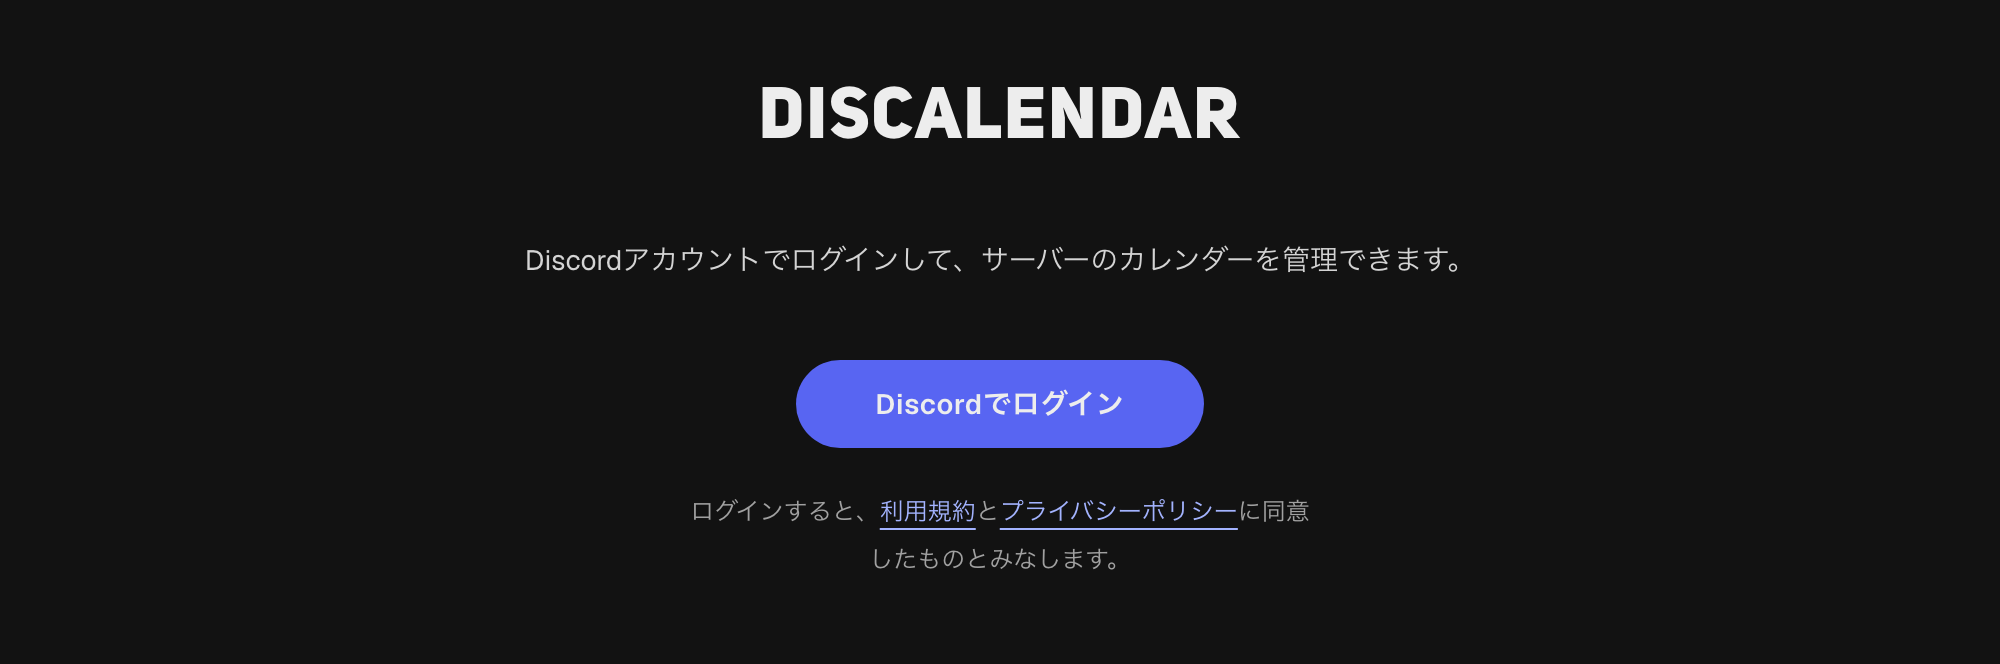
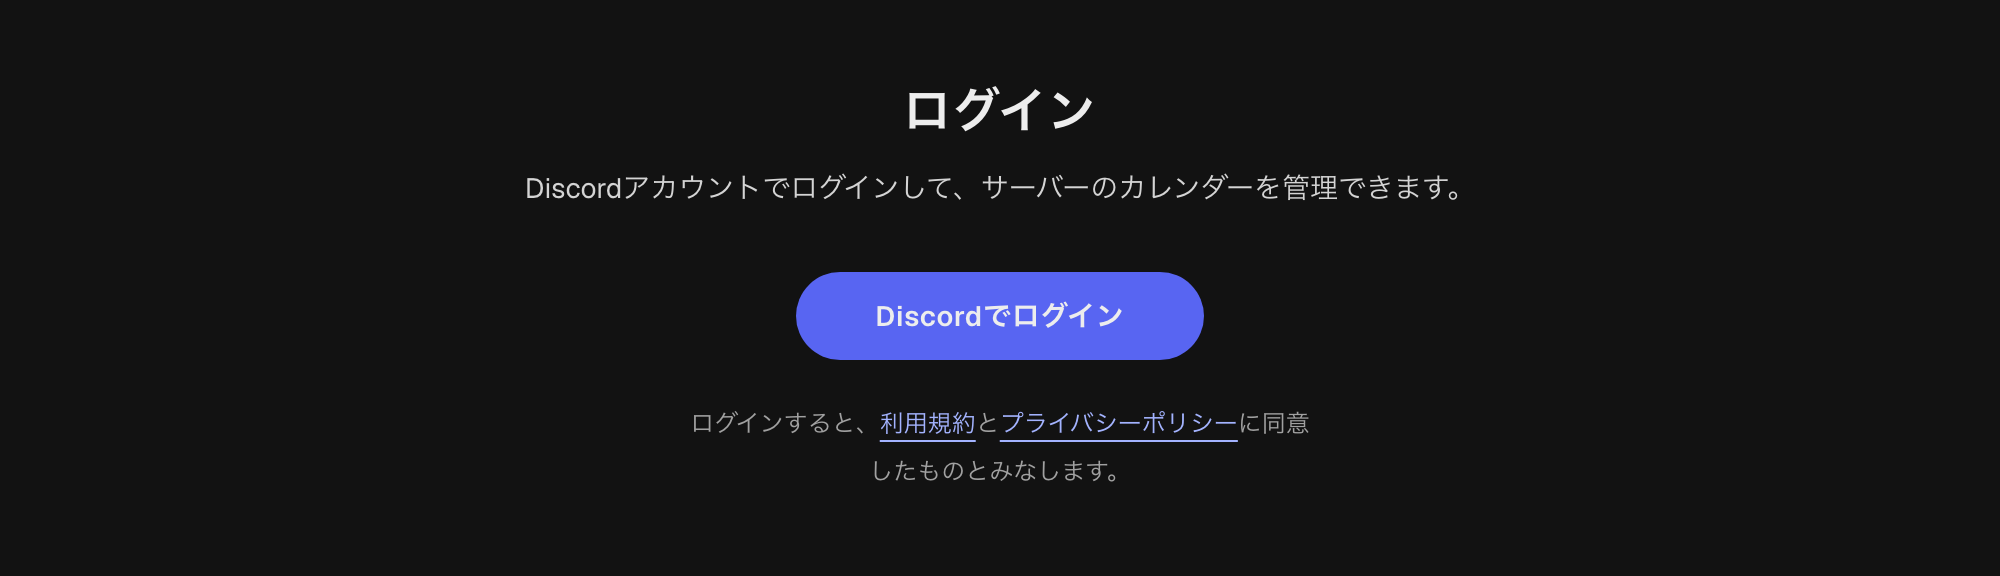
ログイン画面に共通ヘッダ・フッタを追加し、ログアウト後はトップページへ戻す

diff --git a/web/e2e/auth.spec.ts b/web/e2e/auth.spec.ts
@@ -21,6 +21,19 @@ test.describe("未ログイン", () => {
     await page.goto(`/dashboard/${E2E_GUILDS.admin.id}`);
     await expect(page).toHaveURL(/\/login$/);
   });
+
+  test("ログイン画面からトップページや使い方へ移動できる", async ({ page }) => {
+    await page.goto("/login");
+    const header = page.getByRole("banner");
+    // 自分自身を指すことになるので、ヘッダ右端の「ログイン」は出さない
+    await expect(header.getByRole("link", { name: "ログイン" })).toHaveCount(0);
+    await expect(
+      page.getByRole("contentinfo").getByRole("link", { name: "使い方" }),
+    ).toBeVisible();
+
+    await header.getByRole("link", { name: "DisCalendar ホーム" }).click();
+    await expect(page).toHaveURL("/");
+  });
 });
 
 test.describe("ログイン済み", () => {
@@ -74,7 +87,7 @@ test.describe("ログイン済み", () => {
     await expect(page.getByRole("button", { name: "新規作成" })).toBeEnabled();
   });
 
-  test("ログアウトするとログイン画面に戻り、セッションが無効になる", async ({
+  test("ログアウトするとトップページに戻り、セッションが無効になる", async ({
     browser,
   }) => {
     // 共有のセッション (storageState) を消さないよう、このテスト専用のセッションでログインする
@@ -92,7 +105,11 @@ test.describe("ログイン済み", () => {
     // ログアウトはヘッダ右端のアカウントメニュー (アバター) のドロップダウンから
     await page.getByRole("button", { name: "アカウントメニュー" }).click();
     await page.getByRole("menuitem", { name: "ログアウト" }).click();
-    await expect(page).toHaveURL(/\/login$/);
+    // ログアウト後はトップページ (LP) に戻り、ヘッダの導線もログイン前のものになる
+    await expect(page).toHaveURL("/");
+    await expect(
+      page.getByRole("banner").getByRole("link", { name: "ログイン" }),
+    ).toBeVisible();
     // cookie が消えた / セッションが無効になったので開き直しても入れない
     await page.goto("/dashboard");
     await expect(page).toHaveURL(/\/login$/);

diff --git a/web/src/app/login/page.tsx b/web/src/app/login/page.tsx
@@ -1,7 +1,6 @@
 "use client";
 
 import Link from "next/link";
-import { Logo } from "@/components/logo";
 import { authClient } from "@/lib/auth-client";
 import { ROUTES } from "@/lib/site";
 
@@ -17,13 +16,14 @@ export default function LoginPage() {
   };
 
   return (
-    <main className="flex flex-1 flex-col items-center justify-center gap-10 p-8">
-      <h1>
-        <Logo className="text-4xl" />
-      </h1>
-      <p className="text-sm text-neutral-300">
-        Discordアカウントでログインして、サーバーのカレンダーを管理できます。
-      </p>
+    <main className="flex flex-1 flex-col items-center justify-center gap-8 p-8">
+      {/* ロゴはヘッダに出ているので、見出しはこの画面が何かを示す「ログイン」にする */}
+      <div className="flex flex-col items-center gap-3 text-center">
+        <h1 className="text-2xl font-bold tracking-wide">ログイン</h1>
+        <p className="text-sm text-neutral-300">
+          Discordアカウントでログインして、サーバーのカレンダーを管理できます。
+        </p>
+      </div>
       <div className="flex flex-col items-center gap-5">
         <button
           type="button"

diff --git a/web/e2e/screenshots/shots.spec.ts b/web/e2e/screenshots/shots.spec.ts
@@ -142,7 +142,7 @@ test.describe("ログイン", () => {
 
   test("docs/login.png (ログインページ)", async ({ page }) => {
     await page.goto("/login");
-    const logo = page.getByRole("heading", { name: "DisCalendar" });
+    const heading = page.getByRole("heading", { name: "ログイン" });
     const button = page.getByRole("button", { name: "Discordでログイン" });
     // 末尾の但し書きまで入れて切る (途中で切れないように)
     const notice = page.locator("main p").last();
@@ -151,7 +151,10 @@ test.describe("ログイン", () => {
     await settle(page);
     await page.screenshot({
       path: assetPath("docs/login.png"),
-      clip: await clipAround(page, [logo, button, notice], { x: 400, y: 40 }),
+      clip: await clipAround(page, [heading, button, notice], {
+        x: 400,
+        y: 40,
+      }),
     });
   });
 });

diff --git a/web/src/components/session-link.tsx b/web/src/components/session-link.tsx
@@ -1,6 +1,7 @@
 "use client";
 
 import Link from "next/link";
+import { usePathname } from "next/navigation";
 import { authClient } from "@/lib/auth-client";
 import { ROUTES } from "@/lib/site";
 
@@ -15,12 +16,17 @@ interface Props {
  */
 export function SessionLink({ className }: Props) {
   const { data: session } = authClient.useSession();
+  const pathname = usePathname();
   if (session) {
     return (
       <Link href={ROUTES.dashboard} className={className}>
         サーバー一覧
       </Link>
     );
+  }
+  // ログイン画面では自分自身へのリンクになり、本文のログインボタンとも紛らわしいので出さない
+  if (pathname === ROUTES.login) {
+    return null;
   }
   return (
     <Link href={ROUTES.login} className={className}>

diff --git a/web/src/hooks/use-sign-out.ts b/web/src/hooks/use-sign-out.ts
@@ -5,11 +5,11 @@ import { useCallback } from "react";
 import { authClient } from "@/lib/auth-client";
 import { ROUTES } from "@/lib/site";
 
-/** ログアウトしてログイン画面へ戻す (アカウントメニューとナビゲーションドロワーで共用) */
+/** ログアウトしてトップページへ戻す (アカウントメニューとナビゲーションドロワーで共用) */
 export function useSignOut() {
   const router = useRouter();
   return useCallback(async () => {
     await authClient.signOut();
-    router.push(ROUTES.login);
+    router.push(ROUTES.home);
   }, [router]);
 }

diff --git a/web/src/app/login/layout.tsx b/web/src/app/login/layout.tsx
@@ -1,0 +1,14 @@
+import { SiteFooter } from "@/components/site-footer";
+import { SiteHeader } from "@/components/site-header";
+
+// ログイン画面のレイアウト。LP や規約ページと同じヘッダ・フッタで挟み、
+// ログインせずに使い方や規約などへ移動できるようにする
+export default function LoginLayout({ children }: LayoutProps<"/login">) {
+  return (
+    <>
+      <SiteHeader />
+      {children}
+      <SiteFooter />
+    </>
+  );
+}
